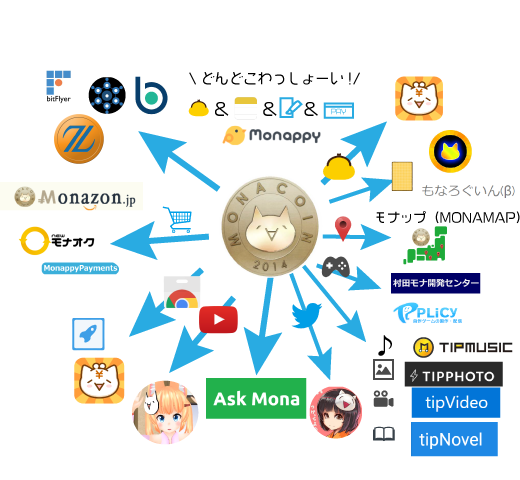
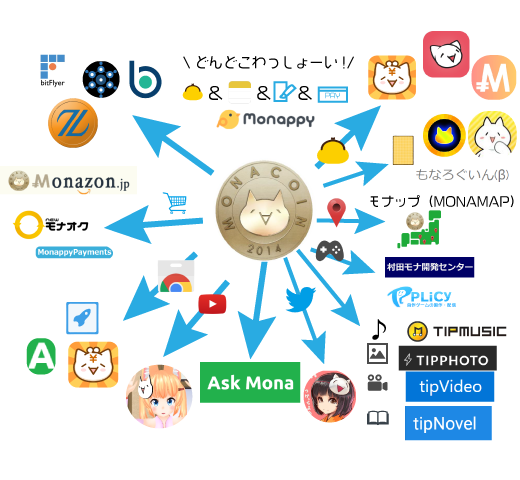
update illustmap

diff --git a/illustmap/monacoin/js/sample.js b/illustmap/monacoin/js/sample.js
@@ -179,6 +179,22 @@
                         img.src = "https://harunonsystem.github.io/illustmap/monacoin/images/monacard.png";
                         ctx.drawImage(img, pt.x - w / 2, pt.y - w / 2, 100, 100);
                     }
+                    else if (node.name == "monawallet") {
+                        img.src = "https://harunonsystem.github.io/illustmap/monacoin/images/monawallet.png";
+                        ctx.drawImage(img, pt.x - w / 2, pt.y - w / 2, 100, 100);
+                    }
+                    else if (node.name == "pan") {
+                        img.src = "https://harunonsystem.github.io/illustmap/monacoin/images/pan.png";
+                        ctx.drawImage(img, pt.x - w / 2, pt.y - w / 2, 100, 100);
+                    }
+                    else if (node.name == "ask_chrome") {
+                        img.src = "https://harunonsystem.github.io/illustmap/monacoin/images/ask_chrome.png";
+                        ctx.drawImage(img, pt.x - w / 2, pt.y - w / 2, 100, 100);
+                    }
+                    else if (node.name == "monabako") {
+                        img.src = "https://harunonsystem.github.io/illustmap/monacoin/images/monabako.png";
+                        ctx.drawImage(img, pt.x - w / 2, pt.y - w / 2, 100, 100);
+                    }
                     else if (node.data.who == "tradeplaces") {
                         ctx.fillStyle = "rgba(0,0,255,0)"
                         gfx.oval(pt.x - w / 2, pt.y - w / 2, w, w, { fill: ctx.fillStyle })
@@ -187,64 +203,7 @@
                         ctx.fillStyle = "rgba(0,0,255,0)"
                         gfx.oval(pt.x - w / 2, pt.y - w / 2, w, w, { fill: ctx.fillStyle })
                     }
-                    /*addnode color 
-                    if (node.data.url == "mona") {
-                        ctx.fillStyle = "rgba(150,5,10,0.666)"
-                        gfx.oval(pt.x - w / 2, pt.y - w / 2, w, w, { fill: ctx.fillStyle })
-                    }
- 
-                    else if (node.data.url == "wallet") {
-                        ctx.fillStyle = "rgba(246,168,37,1)"
-                        gfx.oval(pt.x - w / 2, pt.y - w / 2, w, w, { fill: ctx.fillStyle })
-                    }
-                    else if (node.data.url == "ec") {
-                        ctx.fillStyle = "rgba(168,122,255,1)"
-                        gfx.oval(pt.x - w / 2, pt.y - w / 2, w, w, { fill: ctx.fillStyle })
-                    }
-                    else if (node.data.url == "tipservice") {
-                        ctx.fillStyle = "rgba(0,0,255,0)"
-                         gfx.oval(pt.x - w / 2, pt.y - w / 2, w, w, { fill: ctx.fillStyle })
-                    }
-                    else if (node.data.url == "youtube") {
-                        ctx.fillStyle = "rgba(246,35,0,1)"
-                        gfx.oval(pt.x - w / 2, pt.y - w / 2, w, w, { fill: ctx.fillStyle })
-                    }
-                    else if (node.data.url == "twitter") {
-                        ctx.fillStyle = "rgba(0,183,255,1)"
-                        gfx.oval(pt.x - w / 2, pt.y - w / 2, w, w, { fill: ctx.fillStyle })
-                    }
-                    else if (node.data.url == "monacoinchan") {
-                        ctx.fillStyle = "rgba(0,183,255,1)"
-                        gfx.oval(pt.x - w / 2, pt.y - w / 2, w, w, { fill: ctx.fillStyle })
-                    }
-                    else if (node.data.url == "tradeplaces") {
-                        ctx.fillStyle = "rgba(0,20,150,0.666)"
-                        gfx.oval(pt.x - w / 2, pt.y - w / 2, w, w, { fill: ctx.fillStyle })
-                    }
-                    else if (node.data.url == "askmona") {
-                        ctx.fillStyle = "rgba(0,204,35,1)"
-                        gfx.oval(pt.x - w / 2, pt.y - w / 2, w, w, { fill: ctx.fillStyle })
-                    }
-                    else if (node.data.url == "nekomasu") {
-                        ctx.fillStyle = "rgba(246,35,0,1)"
-                        gfx.oval(pt.x - w / 2, pt.y - w / 2, w, w, { fill: ctx.fillStyle })
-                    }
-                    else if (node.data.url == "game") {
-                        ctx.fillStyle = "rgba(0,132,255,1)"
-                        gfx.oval(pt.x - w / 2, pt.y - w / 2, w, w, { fill: ctx.fillStyle })
-                    }                        
-                    else if (node.data.url == "chromeattachement") {
-                        ctx.fillStyle = "rgba(0,112,255,1)"
-                        gfx.oval(pt.x - w / 2, pt.y - w / 2, w, w, { fill: ctx.fillStyle })
-                    }   
-                    else if (node.data.url == "map") {
-                        ctx.fillStyle = "rgba(47,144,25,1)"
-                        gfx.oval(pt.x - w / 2, pt.y - w / 2, w, w, { fill: ctx.fillStyle })
-                    }   
-                    else if (node.data.url == "monappy") {
-                        ctx.fillStyle = "rgba(231,215,39,1)"
-                        gfx.oval(pt.x - w / 2, pt.y - w / 2, w, w, { fill: ctx.fillStyle })
-                    }*/   
+                    
                     else {
                         ctx.fillStyle = "rgba(0,0,0,0.666)"
                         gfx.oval(pt.x - w / 2, pt.y - w / 2, w, w, { fill: ctx.fillStyle })
@@ -384,6 +343,8 @@
 
         sys.addNode('monappy', { url: 'https://monappy.jp' });
 
+        sys.addNode('monabako', {url: 'https://monabako.com/#/top'});
+
         sys.addNode('map', {});
         sys.addNode('monamap', { url: 'https://www.google.com/maps/d/viewer?mid=13dW7cDC7eKC-OYqf8xhTTejkooId-ueF&ll=35.06939124071531%2C135.444886&z=5' });
 
@@ -401,8 +362,10 @@
         sys.addNode('monacard', { url: "https://card.mona.jp" });
         sys.addNode('monalogin', { url: "https://mona-login.com/" });
 
-        sys.addNode('monya', { url: "https://missmonacoin.github.io/monya/wallet/" });
-        sys.addNode('wallet', {});
+        sys.addNode('monya', { url: "https://monya-wallet.github.io/" });
+        sys.addNode('wallet',);
+        sys.addNode('pan', {url: "https://www.panwallet.com/"});
+        sys.addNode('monawallet', {url: "http://monawallet.net/"});
 
         sys.addNode('ecservices', {});
         sys.addNode('monazon', { url: "https://monazon.jp" });
@@ -417,9 +380,12 @@
         sys.addNode('chromeattachments', {});
         sys.addNode('monyachrome', { url: "https://chrome.google.com/webstore/detail/%E3%82%82%E3%81%AB%E3%82%83-monacoin-bitzeny-wall/lgiengglndmdhgdbdcknhgjnbefhnkio/reviews" });
         sys.addNode('tipassist', { url: "https://chrome.google.com/webstore/detail/tipassist/jheabpiaknlkageplpdbpggnjkikipcf?hl=ja" });
+        sys.addNode('ask_chrome', { url: "https://chrome.google.com/webstore/detail/askmona%E3%81%A1%E3%82%87%E3%81%A3%E3%81%A8%E3%81%A0%E3%81%91%E6%8B%A1%E5%BC%B5/ajiponifkpjacfebkgechpamcojeiake" });
 
         sys.addEdge('monacoin', 'wallet');
         sys.addEdge('wallet', 'monya');
+        sys.addEdge('wallet', 'monawallet');
+        sys.addEdge('wallet', 'pan');
 
         sys.addEdge('monacoin', 'twitter');
         sys.addEdge('twitter', 'monacoinchan');
@@ -451,6 +417,8 @@
 
         sys.addEdge('monacoin', 'askmona');
 
+        sys.addEdge('monacoin', 'monabako');
+
         sys.addEdge('monacoin', 'ecservices');
         sys.addEdge('ecservices', 'monaoku');
         sys.addEdge('ecservices', 'monazon');
@@ -461,6 +429,7 @@
         sys.addEdge('monacoin', 'chromeattachments');
         sys.addEdge('chromeattachments', 'monyachrome');
         sys.addEdge('chromeattachments', 'tipassist');
+        sys.addEdge('chromeattachments', 'ask_chrome');
 
     })
 

diff --git a/illustmap/monacoin/index.html b/illustmap/monacoin/index.html
@@ -13,8 +13,11 @@
 </head>
 <body>
     <div id="illustmap">
+        <h3 style="text-align:center;">イラストマップ</h3>
+       <p style="text-align:center;">ドラッグ＆ドロップでぬるぬる移動・クリックすることでリンクを表示します</br>うまくリンクが表示されない場合は画像のちょっと左上をクリックしてみてください(;O;)</p>
         <canvas id="viewport" width="1280" height="780"></canvas>
          <script src="js/sample.js"></script>
+        <p style="text-align:center;">作成者 <a href="https//twitter.com/harunon_system">@harunon_system</a></p>
          </div>
 </body>
 </html>
